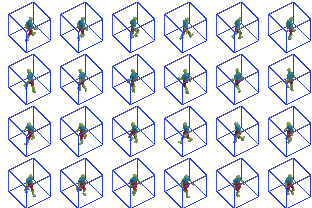
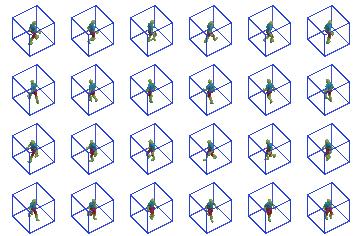
Add a bit more buffer to the sprite sheets (still not enough for the eaves...)

Changed region(s): [[0.0, 0.0, 0.6635, 1.0], [0.6923, 0.0, 1.0, 1.0]]

diff --git a/src/bin/sprite_sheet.rs b/src/bin/sprite_sheet.rs
@@ -39,7 +39,7 @@ const SPRITE_PIXELS_PER_UNIT: f32 = PIXELS_PER_UNIT as f32 / 2.0;
 /// `SPRITE_PIXELS_PER_UNIT`) so frame composition/margins stay the same
 /// regardless of output resolution.
 /// TODO: this is ad-hoc.
-const CELL_WORLD: f32 = (2 * PIXELS_PER_UNIT - 16) as f32 / PIXELS_PER_UNIT as f32;
+const CELL_WORLD: f32 = (2 * PIXELS_PER_UNIT - 2) as f32 / PIXELS_PER_UNIT as f32;
 /// Pixel size of one cell in the output image.
 const CELL_TOTAL_PX: u32 = (CELL_WORLD * SPRITE_PIXELS_PER_UNIT) as u32;
 
